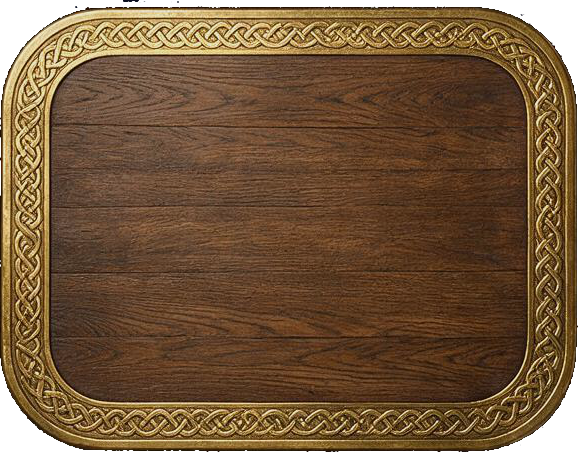
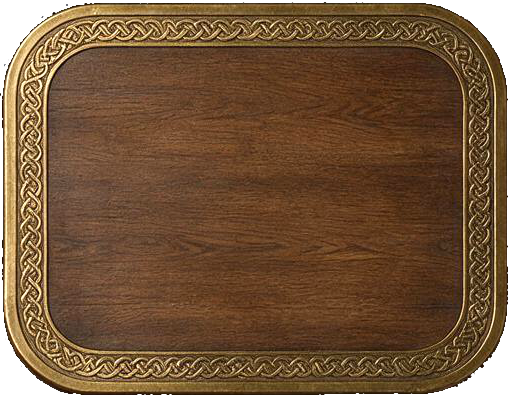
长桌补第 8 档 3.36，修分档需求算漏了选人页舞台
第一版只按 play 页 .compact-stage（长宽比 1.19）算需求，漏了选人页
.selector-page .compact-stage —— 那个是 flex:1 撑满剩余屏高的，比例只有
0.55~0.72。而 balancedLayout() 给 5-10 人的默认布局是全部排左右两侧，
在那个窄高舞台上需求比是 2.86 / 3.36 / 3.47，7-10 人局全部落在原来最大的
2.90 以外，靠外插硬撑，最大拉伸 20.4%。

补的这张不用重新生图：3.36 早就在 tables_v2 的候选池里，只是第一版的挑选
逻辑不知道需要它。顺带把 1.28 那档换成同比例但拉伸更小的一张。
8 档覆盖 1.00-3.50，最大拉伸 9.3%。

拼版 2 整批弃用：同一条提示词跑的三张里，1 和 3 是整圈连续绳结包边，
2 自己换成了四个光面铜包角 + 边上走绳结，混进去就是「有圆角也有尖角」。

- 新增 scripts/pick-table-tiers.py，把两种舞台和全部座位布局枚举出来做覆盖
  最优，档位表别再手算
- export-assets.py 两个 bug：入口 `if __name__` 卡在文件中间，main() 先
  rmtree 掉 miniprogram/assets 却从没调用 export_ui()，直接跑这个脚本等于
  把 ui/ 删掉不补；_meta.json 之前是手写的，现在跟着图一起生成

diff --git a/scripts/pick-table-tiers.py b/scripts/pick-table-tiers.py
@@ -1,0 +1,161 @@
+#!/usr/bin/env python3
+# 从 tables_v2 那批切片里挑长桌的比例档位。
+#
+# 第一版是手算的，漏了一整段需求：只按 compact-stage（比 1.19）算，
+# 没算选人页 .selector-page .compact-stage —— 那个是 flex:1 撑满屏高的，
+# 比例只有 0.55，长宽比需求一路顶到 3.5。而 5-10 人的**默认**座位布局
+# （balancedLayout 全排左右两侧）恰好落在这一段，等于最常见的局全都在外插。
+#
+# 这一版把需求空间完整枚举出来，再做覆盖最优的 DP，别再手算了。
+import glob, itertools, json, math, os, sys
+from PIL import Image
+
+ROOT = os.path.dirname(os.path.dirname(os.path.abspath(__file__)))
+SRC = os.path.join(ROOT, "docs/assets/generated/界面/徽记-切片/v2_norm")
+
+# 拼版 2 整批弃用。同一条提示词跑了三张，1 和 3 是「整圈连续凯尔特绳结包边」，
+# 2 却自己换了做法：四个光面铜包角 + 绳结只走在边上，桌面还多了板缝。
+# 单看不难看，混进去就是用户上次说的「有圆角的也有尖角的」。
+# 教训：同一提示词的多张之间，模型可能在**结构**上分叉，不只是配色浮动——
+# 选片前必须整批并排看一眼，光看比例数字看不出来。
+SKIP_SHEETS = {"2"}
+
+# tableGeometry()：width/height 是舞台的百分比，seats 5 及以上都被 min() 夹住
+W_PCT = {0: 32, 1: 35, 2: 44, 3: 53, 4: 62, 5: 68}
+H_PCT = {0: 28, 1: 33, 2: 42, 3: 51, 4: 60, 5: 62}
+
+# 舞台长宽比。两类：
+#   play 页 .compact-stage —— 宽 100%、高 590rpx，两个都是 rpx，比例基本固定
+#   选人页 / 房间页 —— flex:1 吃掉剩余屏高，比例随机型在 0.55(高屏) ~ 0.72(SE) 之间
+STAGE_RATIOS = [1.19, 1.32] + [0.554 + i * (0.722 - 0.554) / 8 for i in range(9)]
+
+# 分辨率按最大机型算（440pt 宽 @3x）：选人页舞台约 412x744pt，play 页约 412x346pt
+STAGE_PT = {"tall": (412, 744), "wide": (412, 346)}
+DPR = 3
+
+
+def combos():
+    """(需求长宽比, 落地时长边需要多少物理像素)"""
+    out = []
+    for h in range(6):
+        for v in range(6):
+            if h == 0 and v == 0:
+                continue
+            wp, hp = W_PCT[h], H_PCT[v]
+            for sr in STAGE_RATIOS:
+                r = sr * wp / hp
+                a = max(r, 1 / r)
+                sw, sh = STAGE_PT["wide"] if sr > 1 else STAGE_PT["tall"]
+                px = max(sw * wp / 100, sh * hp / 100) * DPR
+                out.append((a, px))
+    return out
+
+
+def default_combos():
+    """balancedLayout：5-10 人默认全排左右两侧，这是绝大多数局真正会走到的档。"""
+    out = []
+    for n in range(5, 11):
+        v = min(5, max((n + 1) // 2, n // 2))
+        wp, hp = W_PCT[0], H_PCT[v]
+        for sr in STAGE_RATIOS:
+            r = sr * wp / hp
+            sw, sh = STAGE_PT["wide"] if sr > 1 else STAGE_PT["tall"]
+            out.append((max(r, 1 / r), max(sw * wp / 100, sh * hp / 100) * DPR, n))
+    return out
+
+
+def load_candidates():
+    rows = []
+    for f in sorted(glob.glob(os.path.join(SRC, "*.png"))):
+        if os.path.basename(f).split("_")[0] in SKIP_SHEETS:
+            continue
+        w, h = Image.open(f).size
+        rows.append({"file": f, "w": w, "h": h,
+                     "aspect": round(max(w / h, h / w), 4), "long": max(w, h)})
+    rows.sort(key=lambda r: r["aspect"])
+    return rows
+
+
+def gap(t1, t2):
+    """相邻两档之间最差的拉伸：需求落在几何中点时。"""
+    return math.sqrt(t2 / t1) - 1
+
+
+def best_subset(cands, k, a_lo, a_hi, cbs):
+    """选 k 档。主目标最小化最大拉伸，并列时再最小化最大放大倍数——
+    比例相近的候选常常尺寸差一截（1.28 那档 578x452 vs 508x395），
+    早先的 DP 在并列时随手挑一个，白白丢了分辨率。池子只有十几张，直接穷举。"""
+    best = None
+    for combo in itertools.combinations(range(len(cands)), k):
+        tiers = [cands[i] for i in combo]
+        s, _, up, _ = evaluate(tiers, cbs)
+        key = (round(s, 4), round(up, 3))
+        if best is None or key < best[0]:
+            best = (key, tiers)
+    return best[0][0], best[1]
+
+
+def evaluate(tiers, cbs):
+    worst_s, worst_a, worst_up = 0.0, 0.0, 0.0
+    ups = {t["aspect"]: 0.0 for t in tiers}
+    for a, px in cbs:
+        t = min(tiers, key=lambda t: abs(math.log(a / t["aspect"])))
+        s = abs(a / t["aspect"] - 1) if a > t["aspect"] else abs(t["aspect"] / a - 1)
+        if s > worst_s:
+            worst_s, worst_a = s, a
+        u = px / t["long"]
+        ups[t["aspect"]] = max(ups[t["aspect"]], u)
+        worst_up = max(worst_up, u)
+    return worst_s, worst_a, worst_up, ups
+
+
+def main():
+    cands = load_candidates()
+    cbs = combos()
+    a_lo, a_hi = min(c[0] for c in cbs), max(c[0] for c in cbs)
+    print("候选 %d 张，比例 %.2f ~ %.2f" % (len(cands), cands[0]["aspect"], cands[-1]["aspect"]))
+    print("需求长宽比区间 %.2f ~ %.2f\n" % (a_lo, a_hi))
+
+    cur = json.load(open(os.path.join(ROOT, "miniprogram/assets/ui/table-long/_meta.json")))
+    cur_tiers = [{"aspect": t["aspect"], "long": max(t["w"], t["h"]),
+                  "w": t["w"], "h": t["h"], "file": ""} for t in cur]
+    s, a, up, _ = evaluate(cur_tiers, cbs)
+    print("现在这 7 档：最大拉伸 %.1f%%（出现在需求比 %.2f），最大放大 %.2fx" % (s * 100, a, up))
+
+    print("\n档数  最大拉伸  最大放大  档位")
+    rows = {}
+    for k in range(7, 13):
+        _, tiers = best_subset(cands, k, a_lo, a_hi, cbs)
+        s, a, up, ups = evaluate(tiers, cbs)
+        rows[k] = (tiers, s, up)
+        print("  %2d   %5.1f%%   %5.2fx   %s" % (
+            k, s * 100, up, " ".join("%.2f" % t["aspect"] for t in tiers)))
+
+    dfs = [(a, px) for a, px, _ in default_combos()]
+    print("\n（只看 5-10 人默认座位布局）")
+    s, a, up, _ = evaluate(cur_tiers, dfs)
+    print("  现在 7 档：最大拉伸 %.1f%%，最大放大 %.2fx" % (s * 100, up))
+    for k in (8, 10):
+        _, tiers = best_subset(cands, k, a_lo, a_hi, cbs)
+        s, a, up, _ = evaluate(tiers, dfs)
+        print("  重挑 %d 档：最大拉伸 %.1f%%，最大放大 %.2fx" % (k, s * 100, up))
+
+    k = int(sys.argv[1]) if len(sys.argv) > 1 else 0
+    if k:
+        tiers, s, up = rows[k]
+        print("\n=== 选定 %d 档 ===" % k)
+        _, _, _, ups = evaluate(tiers, cbs)
+        for i, t in enumerate(tiers, 1):
+            print("  %d.png  %.4f  %dx%d  最大放大 %.2fx  <- %s"
+                  % (i, t["aspect"], t["w"], t["h"], ups[t["aspect"]],
+                     os.path.basename(t["file"])))
+        out = [{"i": i, "aspect": t["aspect"], "w": t["w"], "h": t["h"]}
+               for i, t in enumerate(tiers, 1)]
+        print(json.dumps(out, ensure_ascii=False))
+        with open(os.path.join(ROOT, "scripts/.table-tiers.json"), "w") as fh:
+            json.dump([{"i": i, "aspect": t["aspect"], "w": t["w"], "h": t["h"],
+                        "file": t["file"]} for i, t in enumerate(tiers, 1)], fh,
+                      ensure_ascii=False, indent=1)
+
+
+main()

diff --git a/scripts/export-assets.py b/scripts/export-assets.py
@@ -8,6 +8,7 @@
   身份牌 330x440pt → 990x1320
 """
 import pathlib
+import json
 import shutil
 import sys
 
@@ -107,10 +108,6 @@ def main():
     print(f"\n小程序主包上限 2MB —— {'超了 %.1f 倍' % (grand/1024/1024/2) if grand > 2*1024*1024 else '没超'}")
 
 
-if __name__ == "__main__":
-    main()
-
-
 # ---- 界面资产（图标 / 场景）----
 # 尺寸 = 该资产在界面上的最大用途 × DPR3，留一点余量。改尺寸前先回 wxss 查，别拍脑袋。
 #
@@ -167,17 +164,35 @@ def export_ui():
         f = src / (name[:-4] + (".png" if name.startswith("table-round") else ".jpeg"))
         n = export(f, DST / "ui" / name, size, q=q); total += n
         rows.append(("ui/" + name, "x".join(map(str, size)), n, why))
-    # 长桌改成整图分档：7 张覆盖 29 种布局，最大拉伸 ±7.4%。
+    # 长桌整图分档，10 档，最大拉伸 8.6%。档位由 scripts/pick-table-tiers.py 挑，
+    # 别手改——第一版就是手算的，只按 play 页 compact-stage（比 1.19）算需求，
+    # 漏了选人页那个 flex:1 撑满屏高的舞台（比 0.55），5-10 人默认布局全在外插。
     # 九宫格废弃——边条与中心的色差、角块与 border-radius 的配对，
     # 修了两轮实机仍有可见接缝。整图一次性消掉了这一整类问题。
-    for f in sorted((src / "table-long").glob("*.png")):
+    # sorted() 要按数字排，不然 10.png 会排到 2.png 前面。
+    meta = []
+    for f in sorted((src / "table-long").glob("*.png"), key=lambda f: int(f.stem)):
         im = Image.open(f)
         n = export_png(f, DST / "ui/table-long" / f.name, max(im.size))
         rows.append(("ui/table-long/" + f.name, "%dx%d" % im.size, n,
                      "第%s档 比例 %.2f" % (f.stem, im.width / im.height)))
+        meta.append({"i": int(f.stem), "aspect": round(max(im.size) / min(im.size), 4),
+                     "w": im.width, "h": im.height})
         total += n
+    # 比例表跟着图一起写，别手维护——小程序侧 utils/table-long-meta.js 是这份的副本。
+    (DST / "ui/table-long/_meta.json").write_text(
+        json.dumps(meta, ensure_ascii=False, indent=1), encoding="utf-8")
     w = max(len(r[0]) for r in rows)
     for path, size, n, why in rows:
         print("  %-*s %-11s %7.1f KB   %s" % (w, path, size, n / 1024, why))
     print("\n界面资产合计 %.2f MB" % (total / 1024 / 1024))
     return total
+
+
+if __name__ == "__main__":
+    # main() 会先 rmtree 掉整个 miniprogram/assets，所以 export_ui() 必须跟在它后面
+    # 一起跑。早先这个入口卡在文件中间、export_ui 定义在它下面，直接跑这个脚本
+    # 等于把 ui/ 整个删掉再不补回来——真删过一次。
+    main()
+    print()
+    export_ui()

diff --git a/docs/assets/界面资产接线说明.md b/docs/assets/界面资产接线说明.md
@@ -64,7 +64,7 @@ wxss 里的 `background: url(...)` 同理不能用包内路径。三个办法：
 | `home-emblem.png` | 160px | `.home-emblem` 首页「杯」 |
 | `seal-base.png` | 208px | 9 个状态印的**共用底纹**，汉字继续叠在上面 |
 | `table-round.jpg` | 512² | `.round-table` |
-| `table-long/1..7.png` | 7 张整图 | `.long-table` 按比例分档，见 §3.2 |
+| `table-long/1..8.png` | 8 张整图 | `.long-table` 按比例分档，见 §3.2 |
 | `floor-green.jpg`<br>`floor-indigo.jpg`<br>`floor-wine.jpg`<br>`floor-umber.jpg` | 各 1080² | `.compact-table-stage` 台面，**四色玩家可选**，见 §4.1 |
 | `home-bg.jpg` | 750×1624 | 首页整屏底 |
 
@@ -145,36 +145,52 @@ wxml 里内联（`roundTableBg` 在 js 里 = `assets.uiAsset("table-round.jpg")`
 <view class="round-table" style="background-image:url({{roundTableBg}})"></view>
 ```
 
-### 3.2 长桌 `.long-table` —— 七张整图分档
+### 3.2 长桌 `.long-table` —— 八张整图分档
 
 **九宫格方案已废弃**，别再找那些切片了。它在实机上始终有可见接缝
 （边条与中心的色差、角块与 `border-radius` 的配对），修了两轮仍不干净。
-换成**七张不同比例的整桌图，按最近的比例挑一张**——一整张图，没有拼接，
+换成**八张不同比例的整桌图，按最近的比例挑一张**——一整张图，没有拼接，
 也就没有接缝这一类问题。
 
-`.long-table` 的长宽比不是几个预设，是 **29 个连续值**（`tableLayout.js:79-82`：
-宽只看上下边人数、高只看左右边人数，两个参数独立，是笛卡尔积）。
-竖向布局用横图转 90°，否则要 58 张。七张覆盖 29 个值，**最大拉伸 ±8.0%**，
-绝大多数在 1–5%，木纹和包边上肉眼看不出来。
+`.long-table` 的长宽比不是几个预设，是一段**连续区间**：`tableGeometry()` 的宽只看
+上下边人数、高只看左右边人数（`tableLayout.js:77-88`），两个参数独立；再乘上
+舞台自己的长宽比，而舞台有两种，比例差了一倍多——
 
-**七张的角部造型完全统一**（都是流畅的四分之一圆弧，不是方角配圆润角饰）。
+| 舞台 | 尺寸怎么来的 | 长宽比 |
+|---|---|---|
+| play 页 `.compact-stage` | 宽 100%、高 `590rpx`，两个都是 rpx | 约 1.19 |
+| 选人页 `.selector-page .compact-stage`、房间页 `.long-seat-stage` | `flex: 1` 吃掉剩余**屏高** | 0.55（高屏）~ 0.72（SE） |
+
+两者合起来，需求长宽比覆盖 **1.00 ~ 3.50**。竖向布局用横图转 90°，
+否则要两倍的图。八张覆盖整段，**最大拉伸 9.3%**，绝大多数在 1–5%。
+
+> ⚠ 第一版只出到 2.90 就收了，因为当时只按 play 页那个舞台（比 1.19）算需求。
+> 漏掉的恰好是最常见的一段：`balancedLayout()` 给 5–10 人的**默认**布局是全部
+> 排在左右两侧（`left/right`，`top/bottom` 为 0），在选人页那个窄高舞台上
+> 需求比是 2.86 / 3.36 / 3.47，7–10 人局全部落在 2.90 以外，靠外插硬撑，
+> 最大拉伸 20.4%。**改档位表前先跑 `scripts/pick-table-tiers.py`**，
+> 它把两种舞台、全部座位布局都枚举了，别再手算。
+
+**八张的样式完全统一**：整圈连续的凯尔特绳结铜包边 + 大圆角，
+不是「四个光面铜包角 + 边上走绳结」那一套（那批已整批弃用）。
 
 | 档 | 比例 | 像素 |
 |---|---|---|
 | `1.png` | 1.09 | 563×517 |
-| `2.png` | 1.28 | 578×452 |
+| `2.png` | 1.29 | 508×395 |
 | `3.png` | 1.54 | 630×408 |
 | `4.png` | 1.82 | 683×375 |
 | `5.png` | 2.13 | 736×345 |
 | `6.png` | 2.45 | 751×306 |
 | `7.png` | 2.90 | 915×315 |
+| `8.png` | 3.36 | 750×223 |
 
 比例元数据在 `assets/ui/table-long/_meta.json`，**别把上表的数字抄进代码**，读那个文件。
 
 ```js
 // 长桌整图分档。竖向布局用横图转 90°，所以只存了长宽比 >= 1 的那一半。
-// 注意：stage 的宽随屏宽变而高固定 590rpx，所以长宽比要用**运行时实测的
-// stage 尺寸**算，不能写死——375pt 屏上 stage 是 1.19，414pt 屏上是 1.32，差 11%。
+// 注意：长宽比必须用**运行时实测的 stage 尺寸**算，不能写死。选人页那个舞台是
+// flex:1 撑满剩余屏高的，比例随机型在 0.55~0.72 之间浮动，和 play 页的 1.19 差一倍多。
 function pickLongTable(widthPct, heightPct, stageW, stageH) {
   const w = stageW * widthPct / 100, h = stageH * heightPct / 100
   const rotate = w < h
@@ -192,7 +208,7 @@ function pickLongTable(widthPct, heightPct, stageW, stageH) {
        style="{{longTable.rotate ? 'transform:rotate(90deg)' : ''}}" />
 ```
 
-**用 `mode="scaleToFill"`**，让图填满容器——那 ±7.4% 的拉伸就是这么吸收的。
+**用 `mode="scaleToFill"`**，让图填满容器——那 9.3% 的拉伸就是这么吸收的。
 用 `aspectFit` 会留边、`aspectFill` 会裁掉桌沿，都不对。
 
 ```css
@@ -205,8 +221,12 @@ function pickLongTable(widthPct, heightPct, stageW, stageH) {
 
 > **为什么是 PNG 不是 JPEG**：桌角的雕花铜包角**伸出了圆角矩形之外**，
 > 所以不能像圆桌那样用 `border-radius` 裁 JPEG——会把角饰切掉。实测验证过。
-> 7 张合计 3.5 MB，但**玩家一局只下载其中 1 张**（对应他那间房的座位布局），
-> 实际下载约 500 KB。
+> 8 张合计 3.7 MB，但**玩家一局最多下载其中 2 张**（play 页和选人页舞台比例不同，
+> 会挑到不同档），实际下载约 1 MB。
+>
+> 分辨率是有余量不足的：选人页在大屏上桌子长边能到 461pt = @3x 1383 物理像素，
+> 而图源最大只有 915px，最差要放大 2.7 倍。木面是平的看不太出来，铜包边会偏软。
+> 真觉得糊再重出——但那要按每张桌子 1400px 长边算，一张 1920 画布放不下几个。
 
 ### 3.3 桌心纹章保持独立
 
